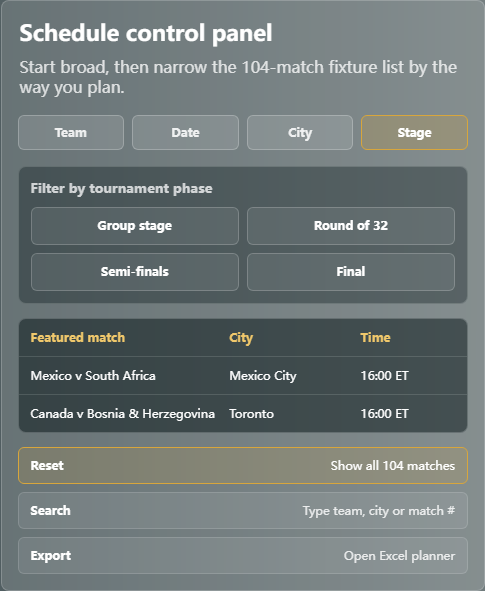
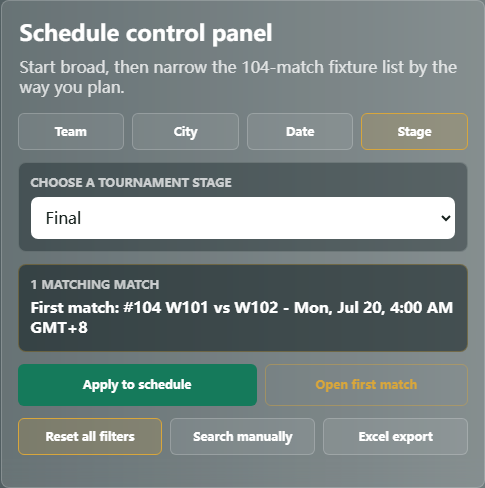
Redesign schedule hero quick planner

Changed region(s): [[0.0309, 0.0307, 0.9897, 0.4918], [0.0309, 0.5225, 0.9588, 0.9529]]

diff --git a/src/styles.css b/src/styles.css
@@ -268,6 +268,120 @@ h1 {
   color: #fff;
 }
 
+.hero-planner {
+  display: grid;
+  gap: 12px;
+  padding: 0 16px 16px;
+}
+
+.hero-planner-tabs {
+  display: grid;
+  grid-template-columns: repeat(4, minmax(0, 1fr));
+  gap: 8px;
+}
+
+.hero-planner-tabs button,
+.hero-planner-actions button,
+.hero-planner-secondary button,
+.hero-planner-secondary a {
+  border: 1px solid rgba(255, 255, 255, 0.2);
+  border-radius: 6px;
+  background: rgba(255, 255, 255, 0.08);
+  color: #fff;
+  cursor: pointer;
+  font: inherit;
+  font-size: 12px;
+  font-weight: 900;
+  padding: 10px;
+  text-align: center;
+}
+
+.hero-planner-tabs button[aria-selected="true"],
+.hero-planner-tabs button:hover,
+.hero-planner-tabs button:focus-visible,
+.hero-planner-actions button:hover,
+.hero-planner-actions button:focus-visible,
+.hero-planner-secondary button:hover,
+.hero-planner-secondary button:focus-visible,
+.hero-planner-secondary a:hover,
+.hero-planner-secondary a:focus-visible {
+  border-color: var(--gold);
+  background: rgba(216, 166, 60, 0.18);
+}
+
+.hero-planner-field {
+  display: grid;
+  gap: 7px;
+  border: 1px solid rgba(255, 255, 255, 0.16);
+  border-radius: 8px;
+  background: rgba(4, 18, 20, 0.34);
+  padding: 12px;
+}
+
+.hero-planner-field span,
+.hero-planner-result span {
+  color: rgba(255, 255, 255, 0.72);
+  font-size: 12px;
+  font-weight: 950;
+  text-transform: uppercase;
+}
+
+.hero-planner-field select {
+  min-height: 42px;
+  width: 100%;
+  border: 1px solid rgba(255, 255, 255, 0.22);
+  border-radius: 7px;
+  background: #fff;
+  color: var(--text);
+  padding: 9px 10px;
+}
+
+.hero-planner-result {
+  display: grid;
+  gap: 6px;
+  border: 1px solid rgba(216, 166, 60, 0.32);
+  border-radius: 8px;
+  background: rgba(4, 18, 20, 0.5);
+  padding: 12px;
+}
+
+.hero-planner-result strong {
+  color: #fff;
+  font-size: 15px;
+  line-height: 1.35;
+}
+
+.hero-planner-actions {
+  display: grid;
+  grid-template-columns: minmax(0, 1fr) minmax(0, 0.85fr);
+  gap: 8px;
+}
+
+.hero-planner-actions button {
+  background: var(--accent);
+  border-color: transparent;
+  min-height: 42px;
+}
+
+.hero-planner-actions a {
+  display: inline-flex;
+  align-items: center;
+  justify-content: center;
+  min-height: 42px;
+  border: 1px solid rgba(216, 166, 60, 0.42);
+  border-radius: 6px;
+  color: var(--gold);
+  font-size: 12px;
+  font-weight: 950;
+  padding: 10px;
+}
+
+.hero-planner-secondary {
+  display: grid;
+  grid-template-columns: repeat(3, minmax(0, 1fr));
+  gap: 8px;
+}
+
 .hero-control-panes {
   padding: 0 16px 14px;
 }
@@ -2344,6 +2458,12 @@ td {
 
   .hero-filter-strip {
     grid-template-columns: repeat(2, minmax(0, 1fr));
+  }
+
+  .hero-planner-tabs,
+  .hero-planner-actions,
+  .hero-planner-secondary {
+    grid-template-columns: 1fr;
   }
 
   .mini-schedule {

diff --git a/page-seo-plans/world-cup-2026-schedule-hero-control-panel.md b/page-seo-plans/world-cup-2026-schedule-hero-control-panel.md
@@ -6,38 +6,47 @@ Date: 2026-05-23
 
 The schedule hero panel looked like a control panel, but it behaved like a static visual preview. It did not help users control the page.
 
-## 2. Optimization Completed
+## 2. Initial Optimization
 
-The hero panel now works as a real control panel:
+The first control-panel pass made the panel clickable, but it still had a weakness: too many actions were preset shortcuts, and the panel did not let users make full choices from the actual schedule data.
 
-- `Team`, `Date`, `City` and `Stage` switch the control panel's internal mode instead of sending every click to the same schedule block.
-- Team mode provides concrete team choices and applies the team filter plus Team View.
-- Date mode provides fixture-day choices and applies the local date filter plus Date cards.
-- City mode provides host-city choices and applies the city filter plus City View.
-- Stage mode provides tournament-phase choices and applies the stage filter in the full table.
-- Featured match rows link to real match detail pages.
-- Reset restores the full 104-match table.
-- Search focuses the schedule search box.
-- Export opens the Excel planner page.
+## 3. Redesign Completed
 
-## 3. Files Changed
+The panel has now been redesigned as a real Quick Planner:
+
+- Users choose a planner mode: Team, City, Date or Stage.
+- The select field is populated from real schedule data, not hardcoded examples.
+- Team mode exposes 48 confirmed team options.
+- City mode exposes all host-city options.
+- Date mode exposes local match dates based on the selected timezone.
+- Stage mode exposes tournament phases.
+- The panel previews the number of matching matches.
+- The panel previews the first matching fixture.
+- `Apply to schedule` applies the selected filter and opens the right view.
+- `Open first match` links to the first matching match detail page.
+- Reset, manual search and Excel export remain available as secondary actions.
+
+## 4. Files Changed
 
 ```text
 scripts/generate-site.mjs
 src/styles.css
 ```
 
-## 4. Validation
+## 5. Validation
 
 ```text
-Hero panel tabs: 4
-Hero option buttons: 16
-Featured match detail links: 2
+Planner modes: 4
+Team options: 48
+Date options in Asia/Shanghai test: 33
 Team example: Mexico -> Team View, 3 matches
-Date example: Opening match -> Date cards, 2 matches in selected timezone
 City example: Dallas -> City View, 9 matches
+Date example: selected local date -> Date cards, 1 match
 Stage example: Final -> Table View, 1 match
+First match link for Final: /world-cup-2026-match/104-w101-vs-w102/
 Reset: returns to 104 matches
+Mobile city example: Dallas -> 9 matches
+Mobile horizontal overflow: false
 Frontend errors: 0
 ```
 
@@ -45,8 +54,9 @@ Preview artifact:
 
 ```text
 page-seo-plans/schedule-hero-control-panel-module-preview.png
+page-seo-plans/schedule-hero-control-panel-mobile-preview.png
 ```
 
-## 5. Next Recommendation
+## 6. Next Recommendation
 
-The control panel now has real page-control value. A later visual pass can add icons or compact select menus, but the priority issue has been resolved: users now make a choice inside the panel and that choice applies a real schedule view or filter.
+The control panel now has real page-control value. A later visual pass can add icons, but the module should keep this planner logic: choose a planning mode, choose a real value, preview the result, then apply it.

diff --git a/page-seo-plans/world-cup-2026-schedule-complete-evaluation.md b/page-seo-plans/world-cup-2026-schedule-complete-evaluation.md
@@ -206,7 +206,7 @@ Strengths:
 - The page remains static-first and does not require an application backend.
 - Tailwind CSS is now available as a build-time utility layer, with preflight disabled to preserve the existing design system.
 - A Matchtimes-inspired live board now gives the schedule page a stronger next-match visual focus, including a seconds countdown and upcoming-match cards.
-- The hero schedule control panel now operates as an actual control surface with internal Team, Date, City and Stage modes that apply concrete filters and views instead of sending every button to the same schedule block.
+- The hero schedule control panel has been redesigned as a Quick Planner: users choose Team, City, Date or Stage, select a real value from schedule data, preview the match count and first fixture, then apply the filter to the correct schedule view.
 - The schedule now connects to 104 real single-match detail pages, each with match-specific content, SportsEvent Schema and internal links.
 - Match detail pages now use a match-center visual module with home/away team cards, countdown, user timezone conversion, match status and planning CTAs.
 - Match detail pages now include Same Group and Team Route modules, giving users lateral paths into related fixtures instead of dead-ending on a single match page.